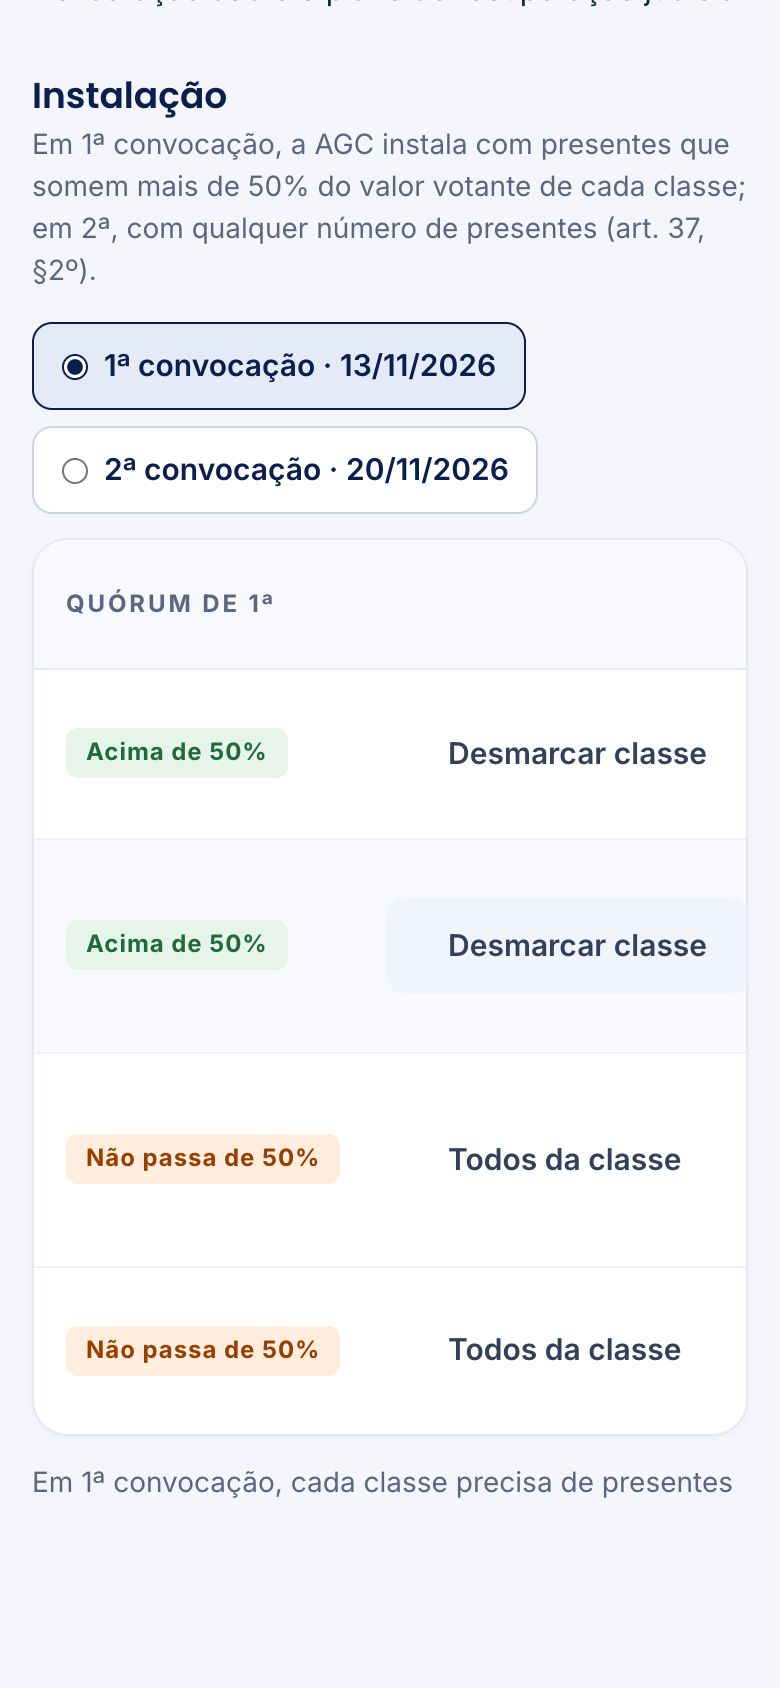
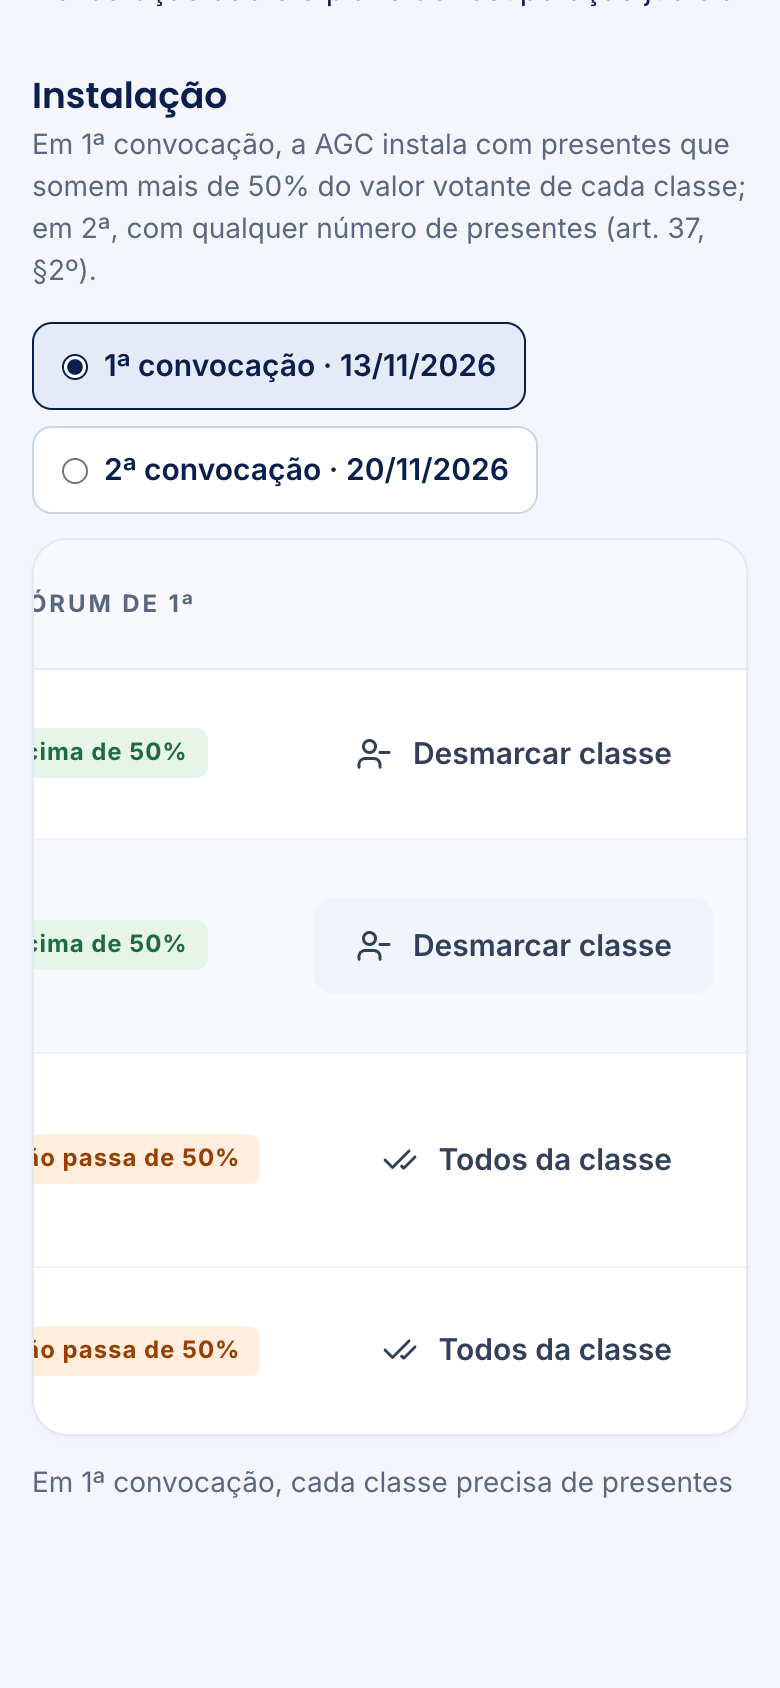
fix(DMO-16): ícone de 'Todos da classe' espremido; capturas refeitas

diff --git a/src/modulos/agc/PainelInstalacao.tsx b/src/modulos/agc/PainelInstalacao.tsx
@@ -125,7 +125,7 @@ export function PainelInstalacao({
         rotulo="Quórum de instalação por classe"
         linhas={situacao.classes}
         chaveLinha={(linha) => linha.classe}
-        larguraMinima={editavel ? 900 : 720}
+        larguraMinima={editavel ? 940 : 720}
         colunas={[
           {
             chave: 'classe',
@@ -172,7 +172,7 @@ export function PainelInstalacao({
                 {
                   chave: 'acao',
                   titulo: <span className="somente-leitor">Ações</span>,
-                  largura: '200px',
+                  largura: '240px',
                   alinhar: 'direita' as const,
                   celula: (linha: InstalacaoClasse) => {
                     if (linha.quantidadeTotal === 0) return null
